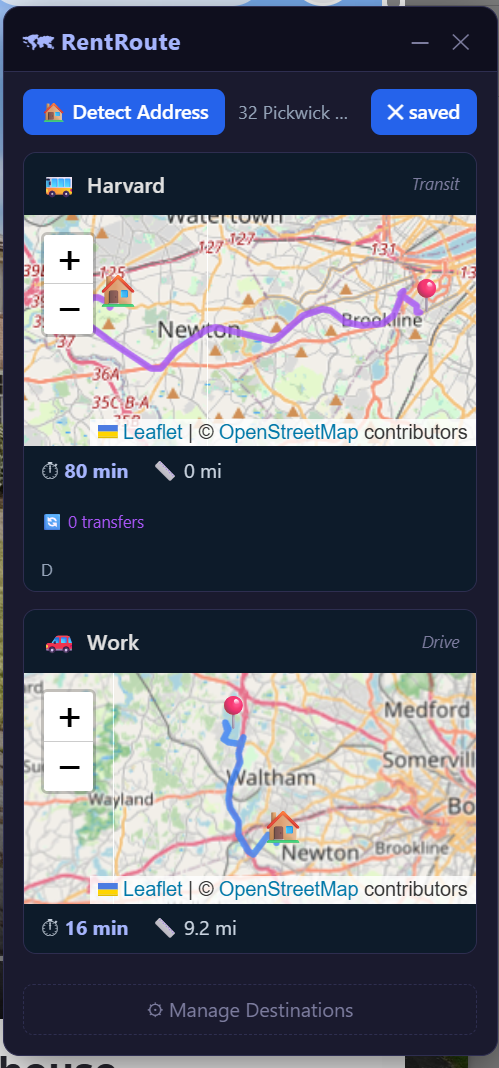
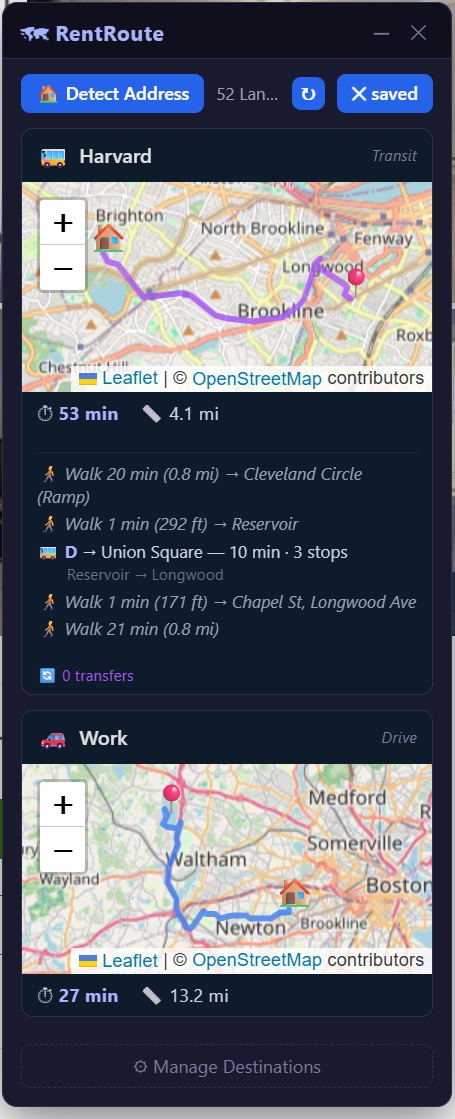
readme update

diff --git a/README.md b/README.md
@@ -2,7 +2,10 @@
 
 Chrome MV3 extension. Injects a floating panel on rental listing pages showing commute times + map routes to your saved destinations.
 
-![RentRoute panel showing commute time cards with maps](rent_route_panel1.png)
+
+| | |
+|---|---|
+| ![Panel — commute cards with maps](rent_route_panel1.png) | ![Panel — API key and destinations](rent_route_panel2.png) |
 
 ## Stack
 
